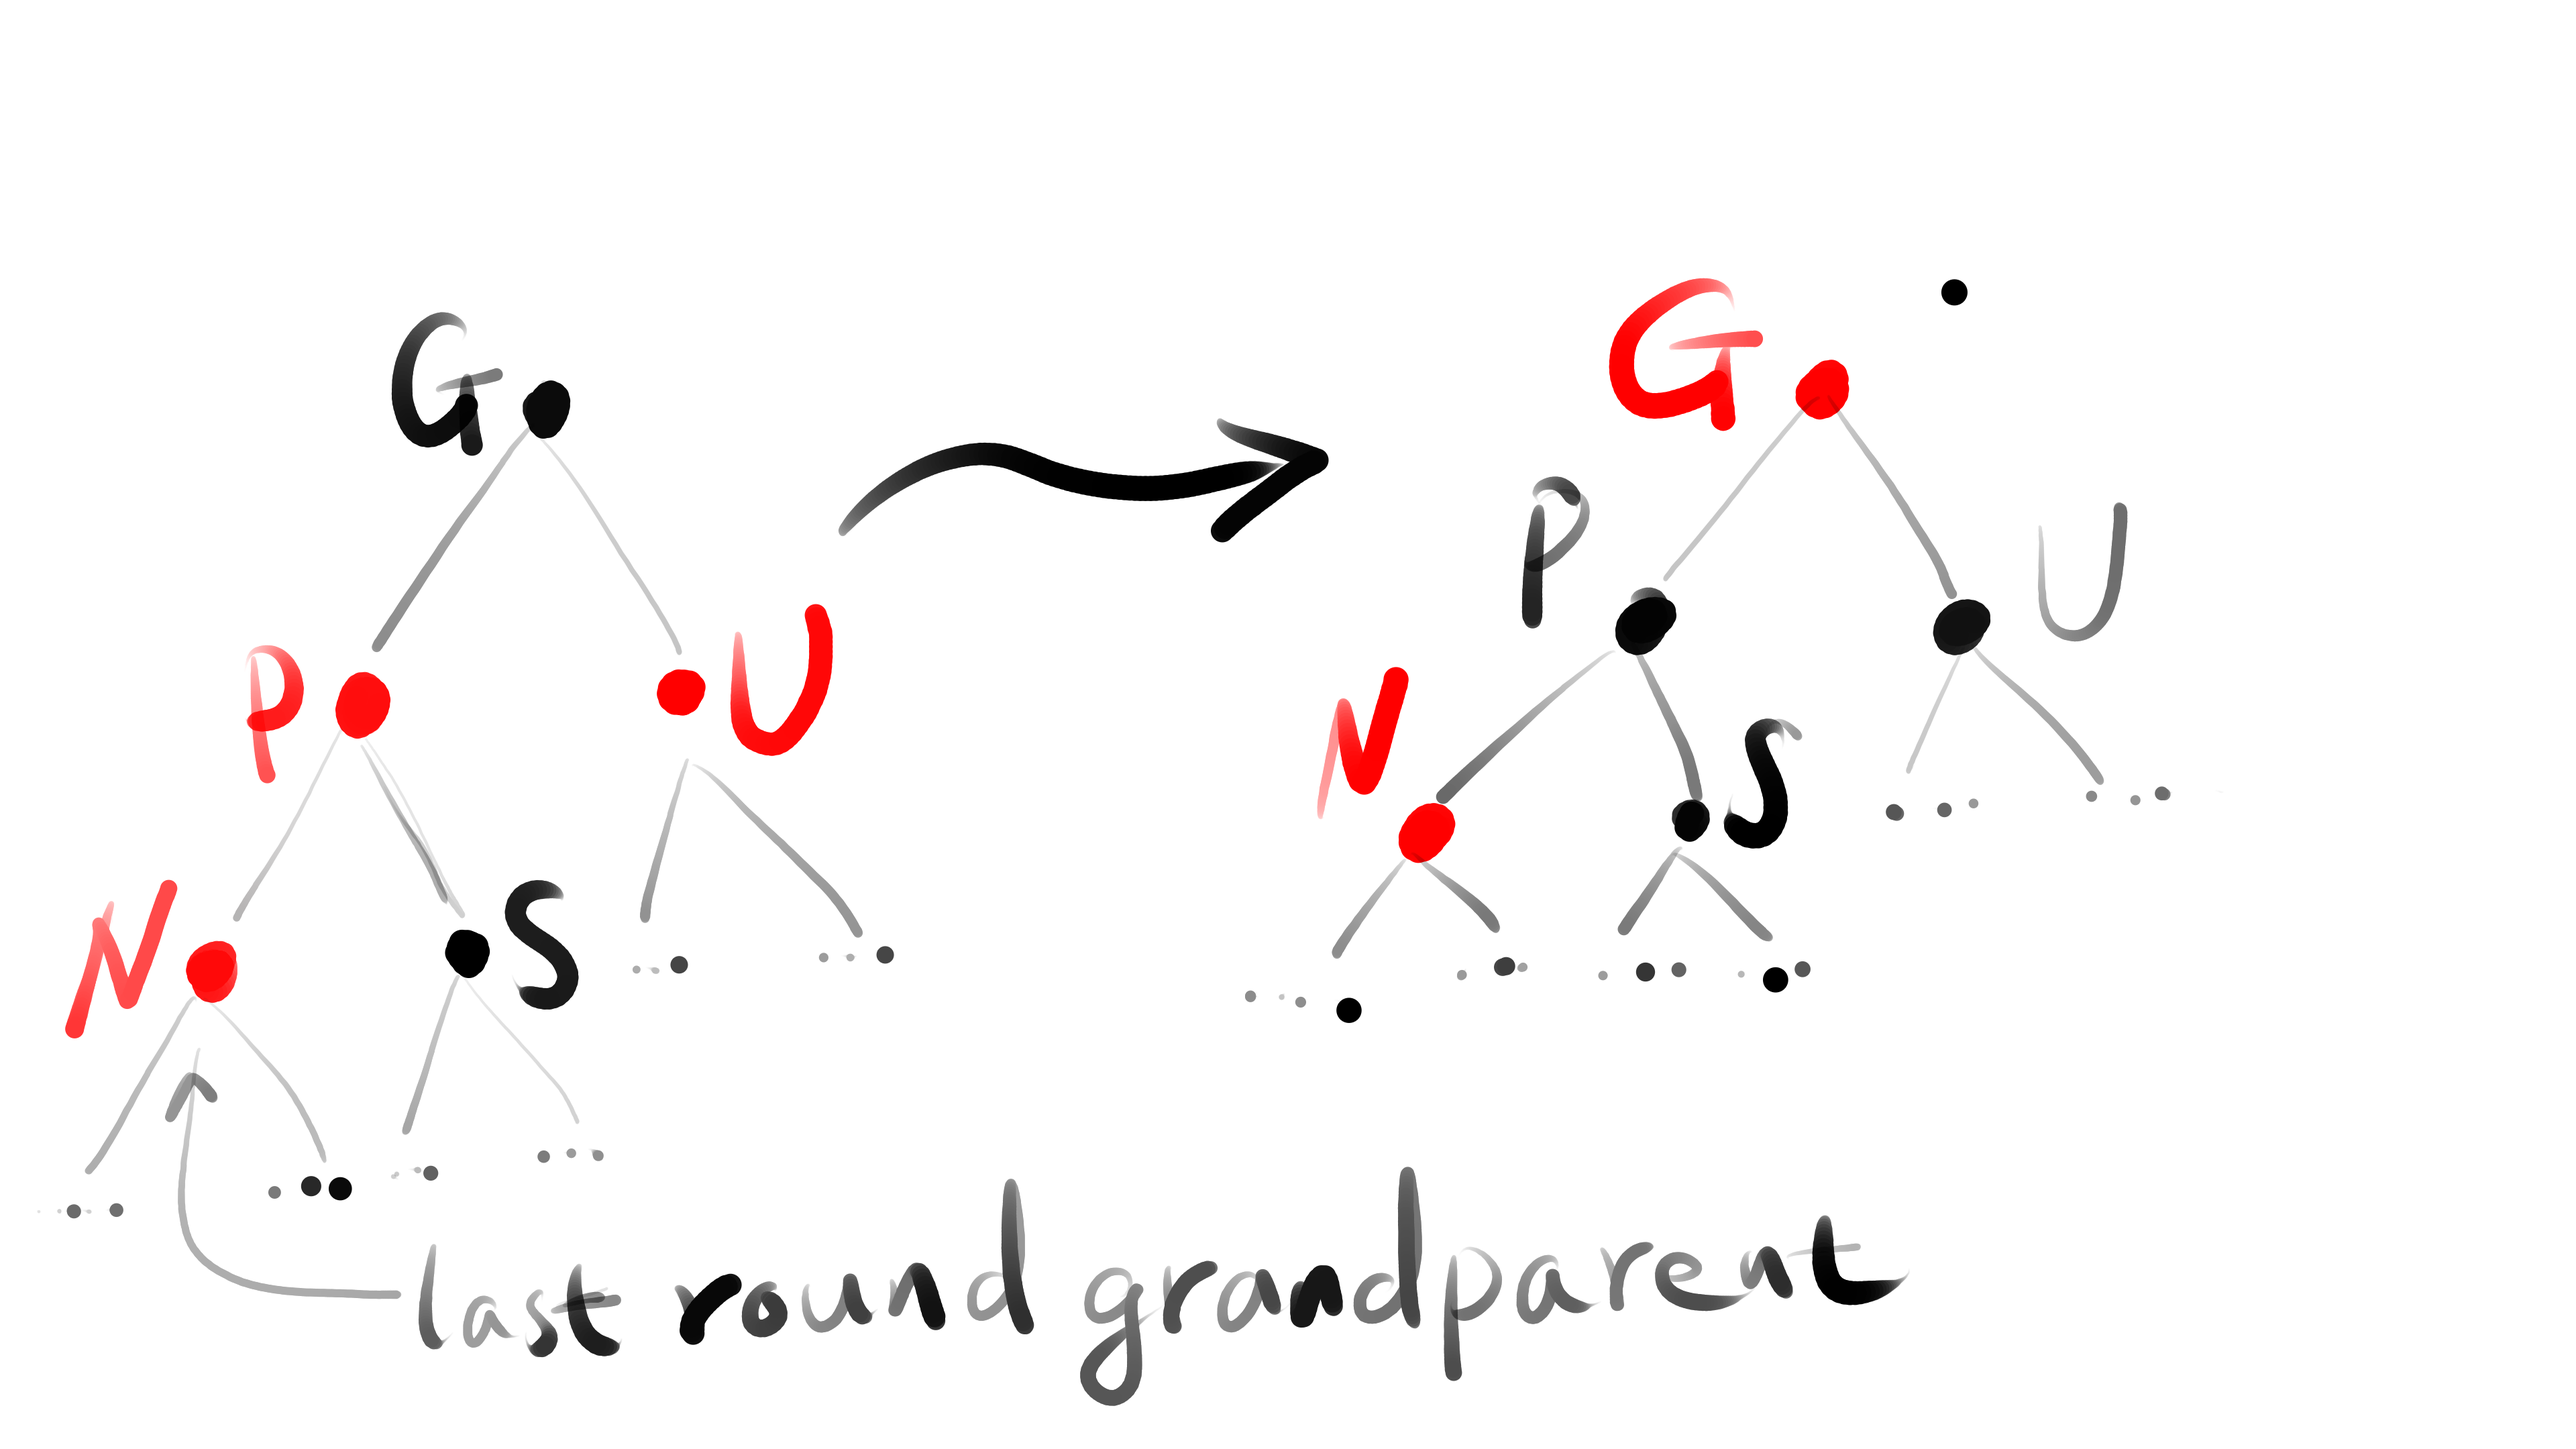
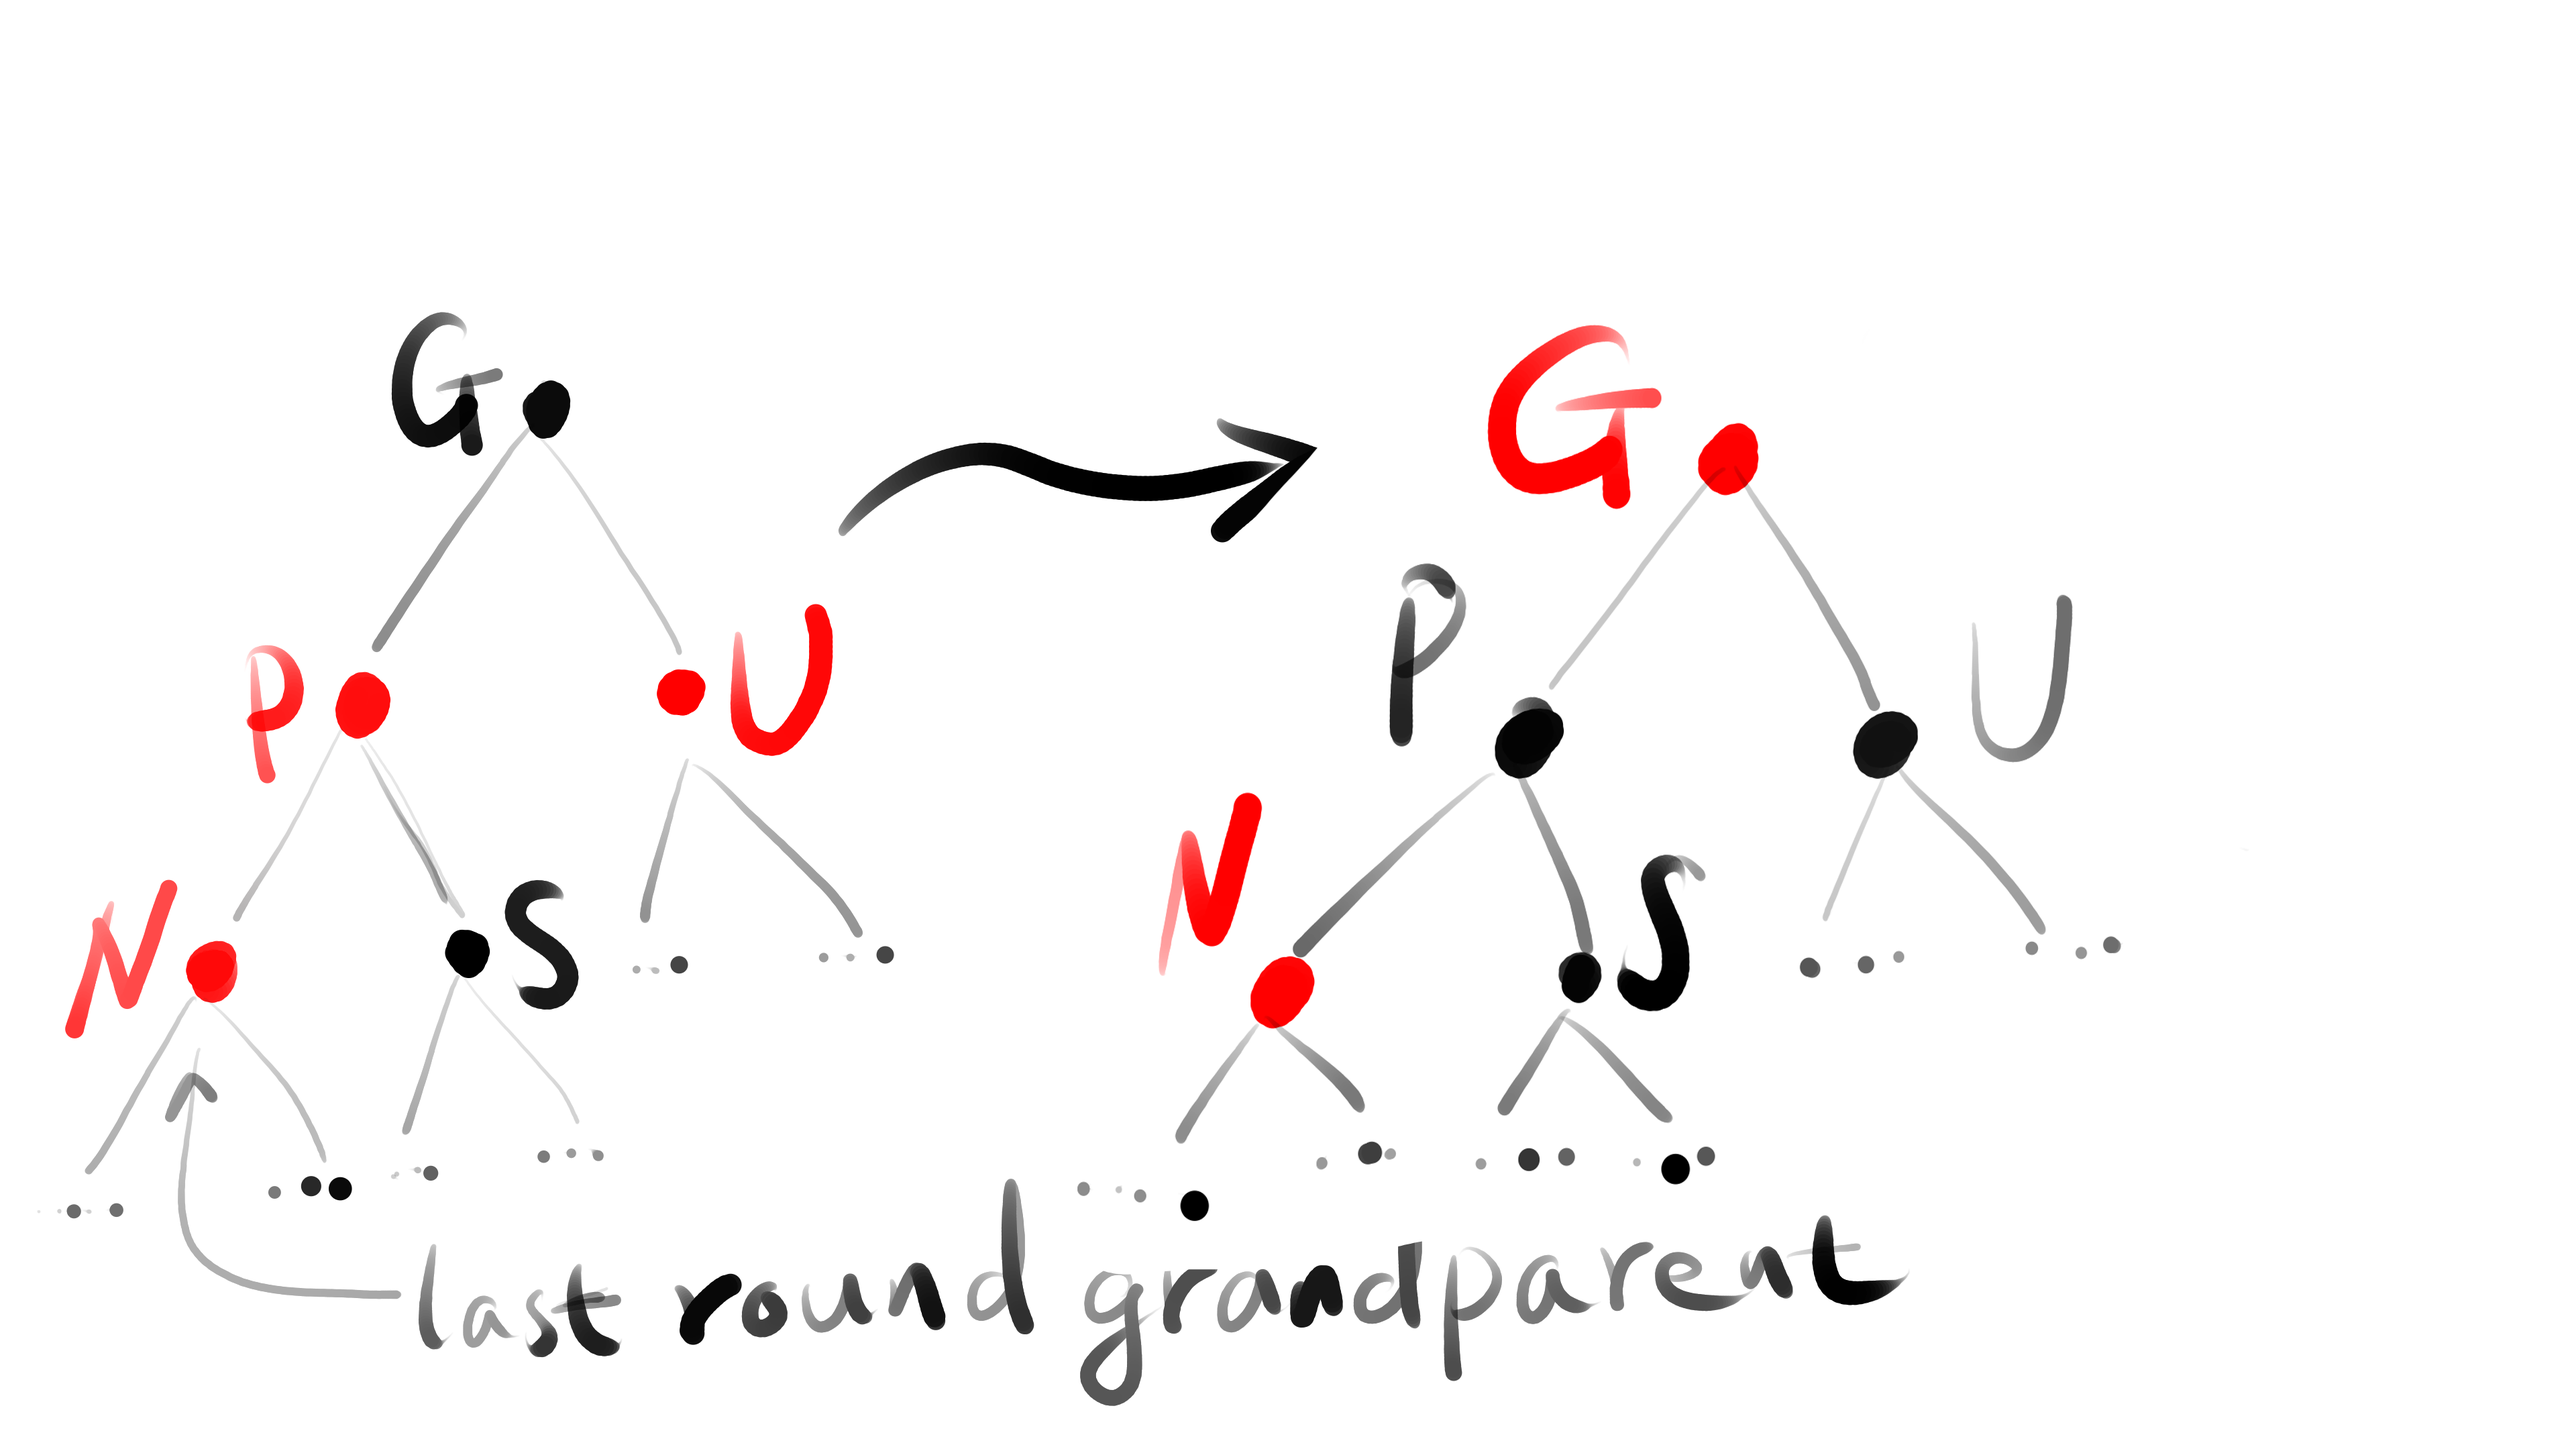
more picture

diff --git a/draft/rbt.py b/draft/rbt.py
@@ -5,7 +5,7 @@ import random
 from enum import Enum
 from typing import Tuple
 import manim
-from manim import Animation,Scene
+from manim import Animation,Scene,MovingCameraScene
 
 class Color(Enum):
     BLACK = 0
@@ -436,6 +436,21 @@ class RbtInsertRedUnclePushRoot(Scene):
         callback.enabled = True
         callback.position_nodes(rbt)
         rbt.insert(-1)
+        self.wait(1)
+        
+class RbtInsertBlackUncle(MovingCameraScene):
+    def construct(self):
+        self.camera.frame.move_to(manim.DOWN*0.5)
+        callback = RBTreeAnimationCallback(self)
+        callback.enabled = False
+        rbt = RBTree(callback)
+
+        for i in [3,1,5,-1,2,4,6,-3,0]:
+            rbt.insert(i)
+        callback.position_nodes(rbt)
+        callback.enabled = True
+        callback.position_nodes(rbt)
+        rbt.insert(-5)
         self.wait(1)
         
 

diff --git a/_posts/2026-01-10-red-black-tree.md b/_posts/2026-01-10-red-black-tree.md
@@ -171,23 +171,14 @@ before and after transform comparison:  higher sub-tree became valid, black heig
 4.3 if new parent is not root, uncle is BLACK, sit far away to new appeared RED node 
 
 
-```
+  ![image]({{ site.baseurl }}/images/2026-01-10-red-black-tree/rbt-insert-4.3.png)
 
-         G(B)                        P(B)                  use P as new root, then child S (between P and G horizontally) will become the new child of G
-        /    \                      /   \                  after this, S still being inbetween P and G horizontally, then recolor P and G, 
-      P(R)   U(B)                N(R)   G(R)
-     /  \     / \      =>              /   \
-    N(R) S(B)  ... ...               S(B)  U(B)
-   / \   / \
-c1(B) c2(B) .. ...
-
-```
 
    in this diagram, left sub-tree has too many red node which can't fit , and we know uncle tree have black-black (G-U) structure, so we push that red color to uncle tree
    left state (before fixing), every subtree is already balanced, N(R), S(B), U(B) all have same black height, so after moving S as G child, G(R) is also balanced
    and path at N(R) changed from B->R->R  to B->R, black height also unchanged, thus after fixing, P is balanced. since it's Black, so no further fixing required
-
    
+  ![image]({{ site.baseurl }}/images/2026-01-10-red-black-tree/rbt-insert-uncle-black.gif)
 
 4.4 similar to 4.3, but new appeared RED and uncle near each other, so we have
       G(B)                        P (R)
